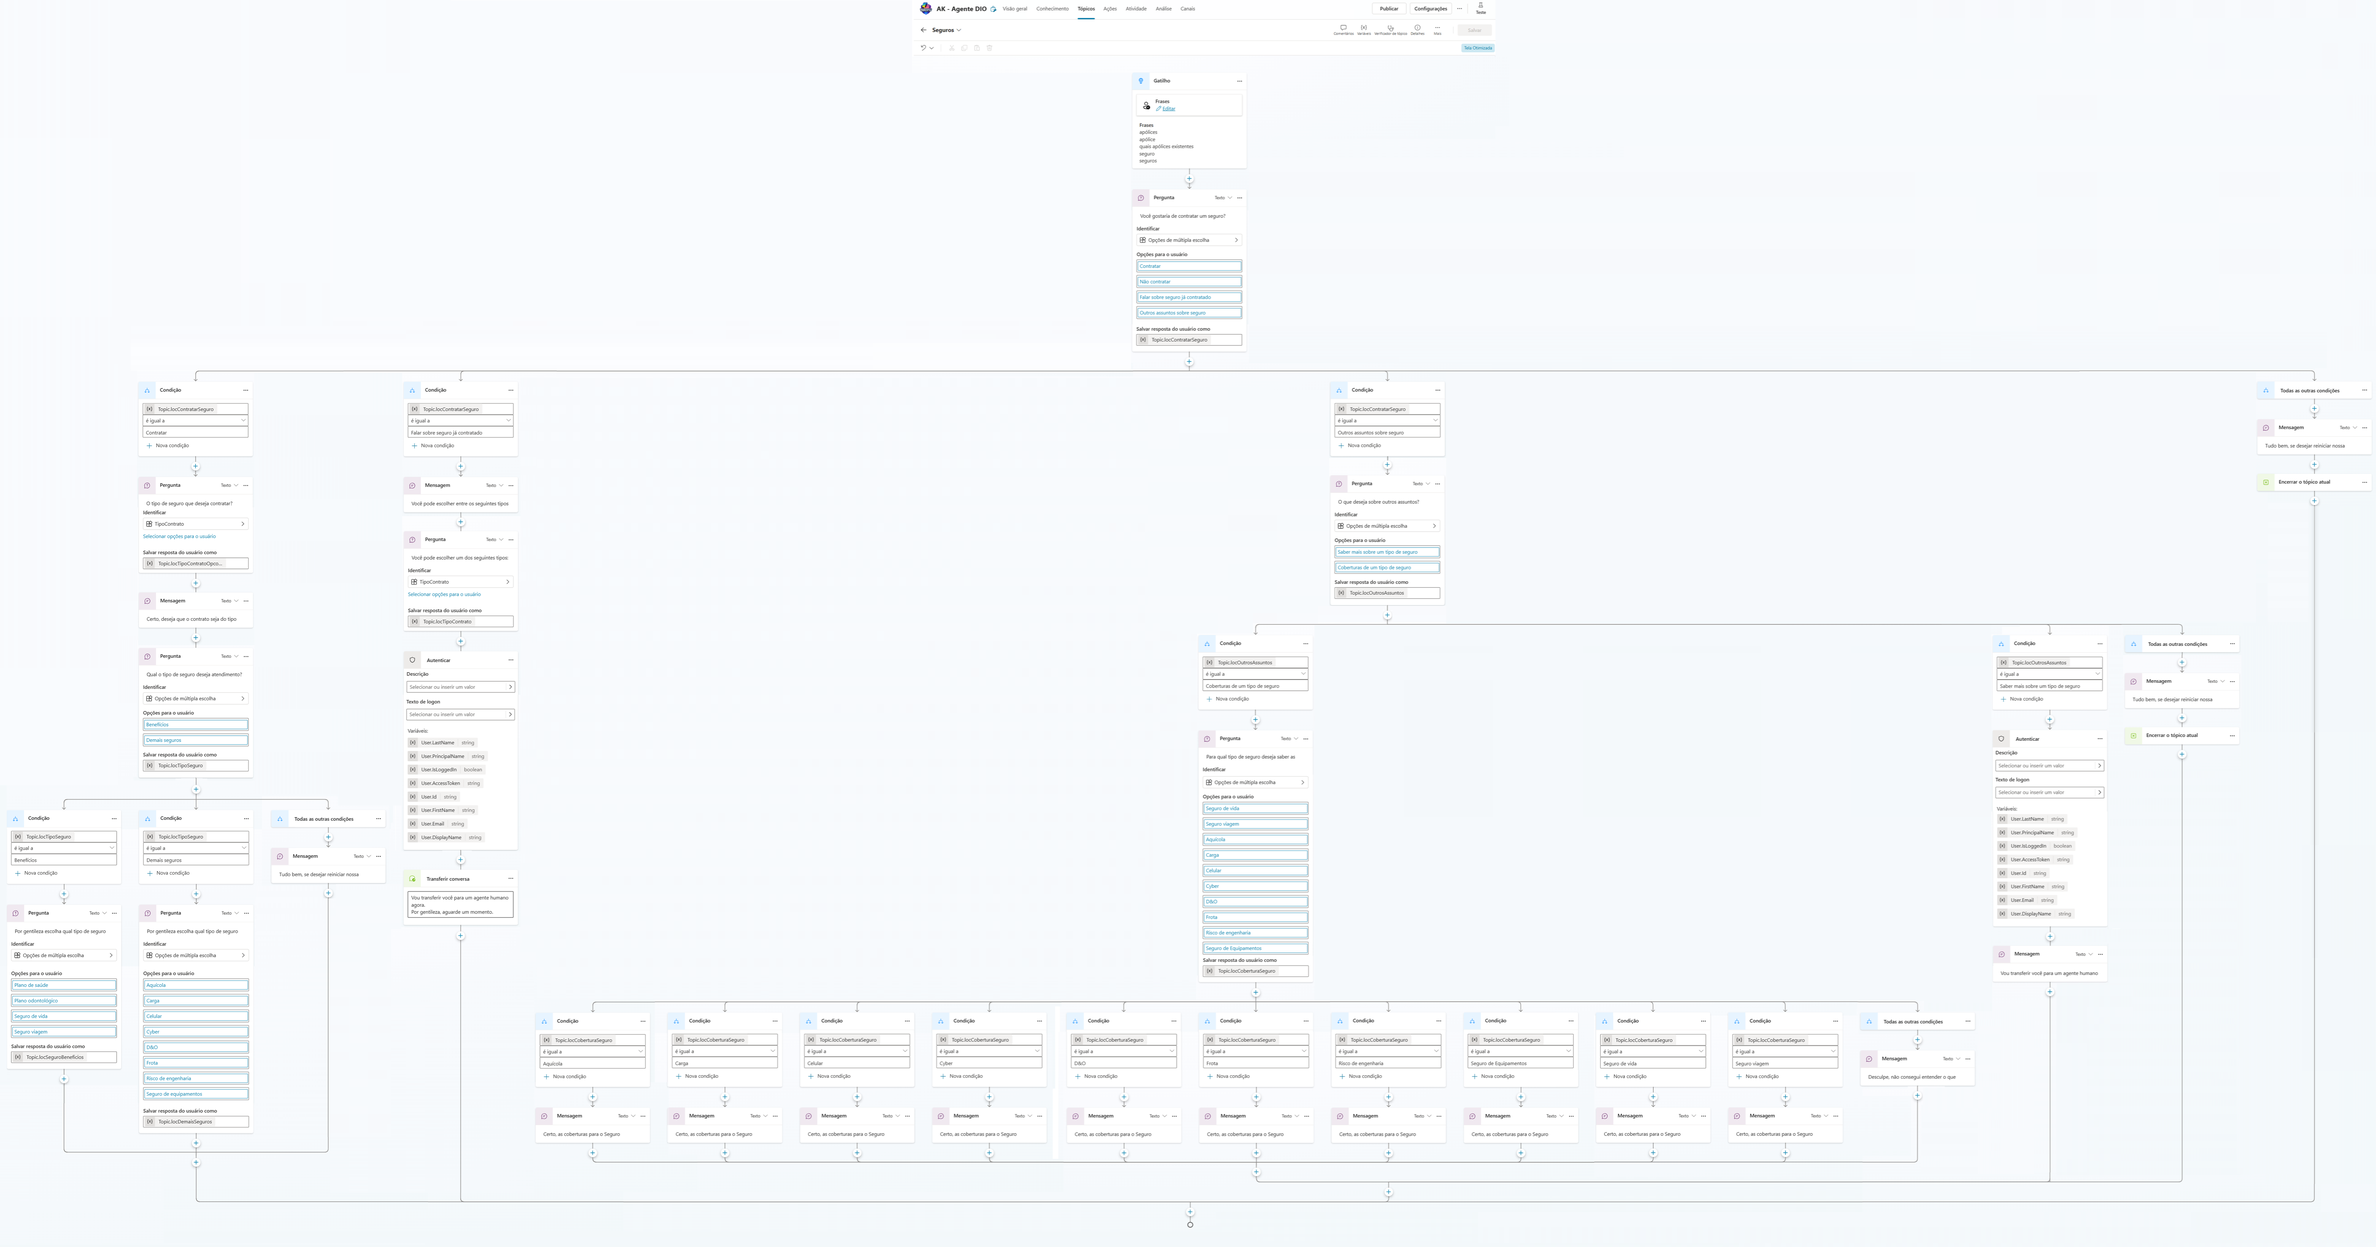
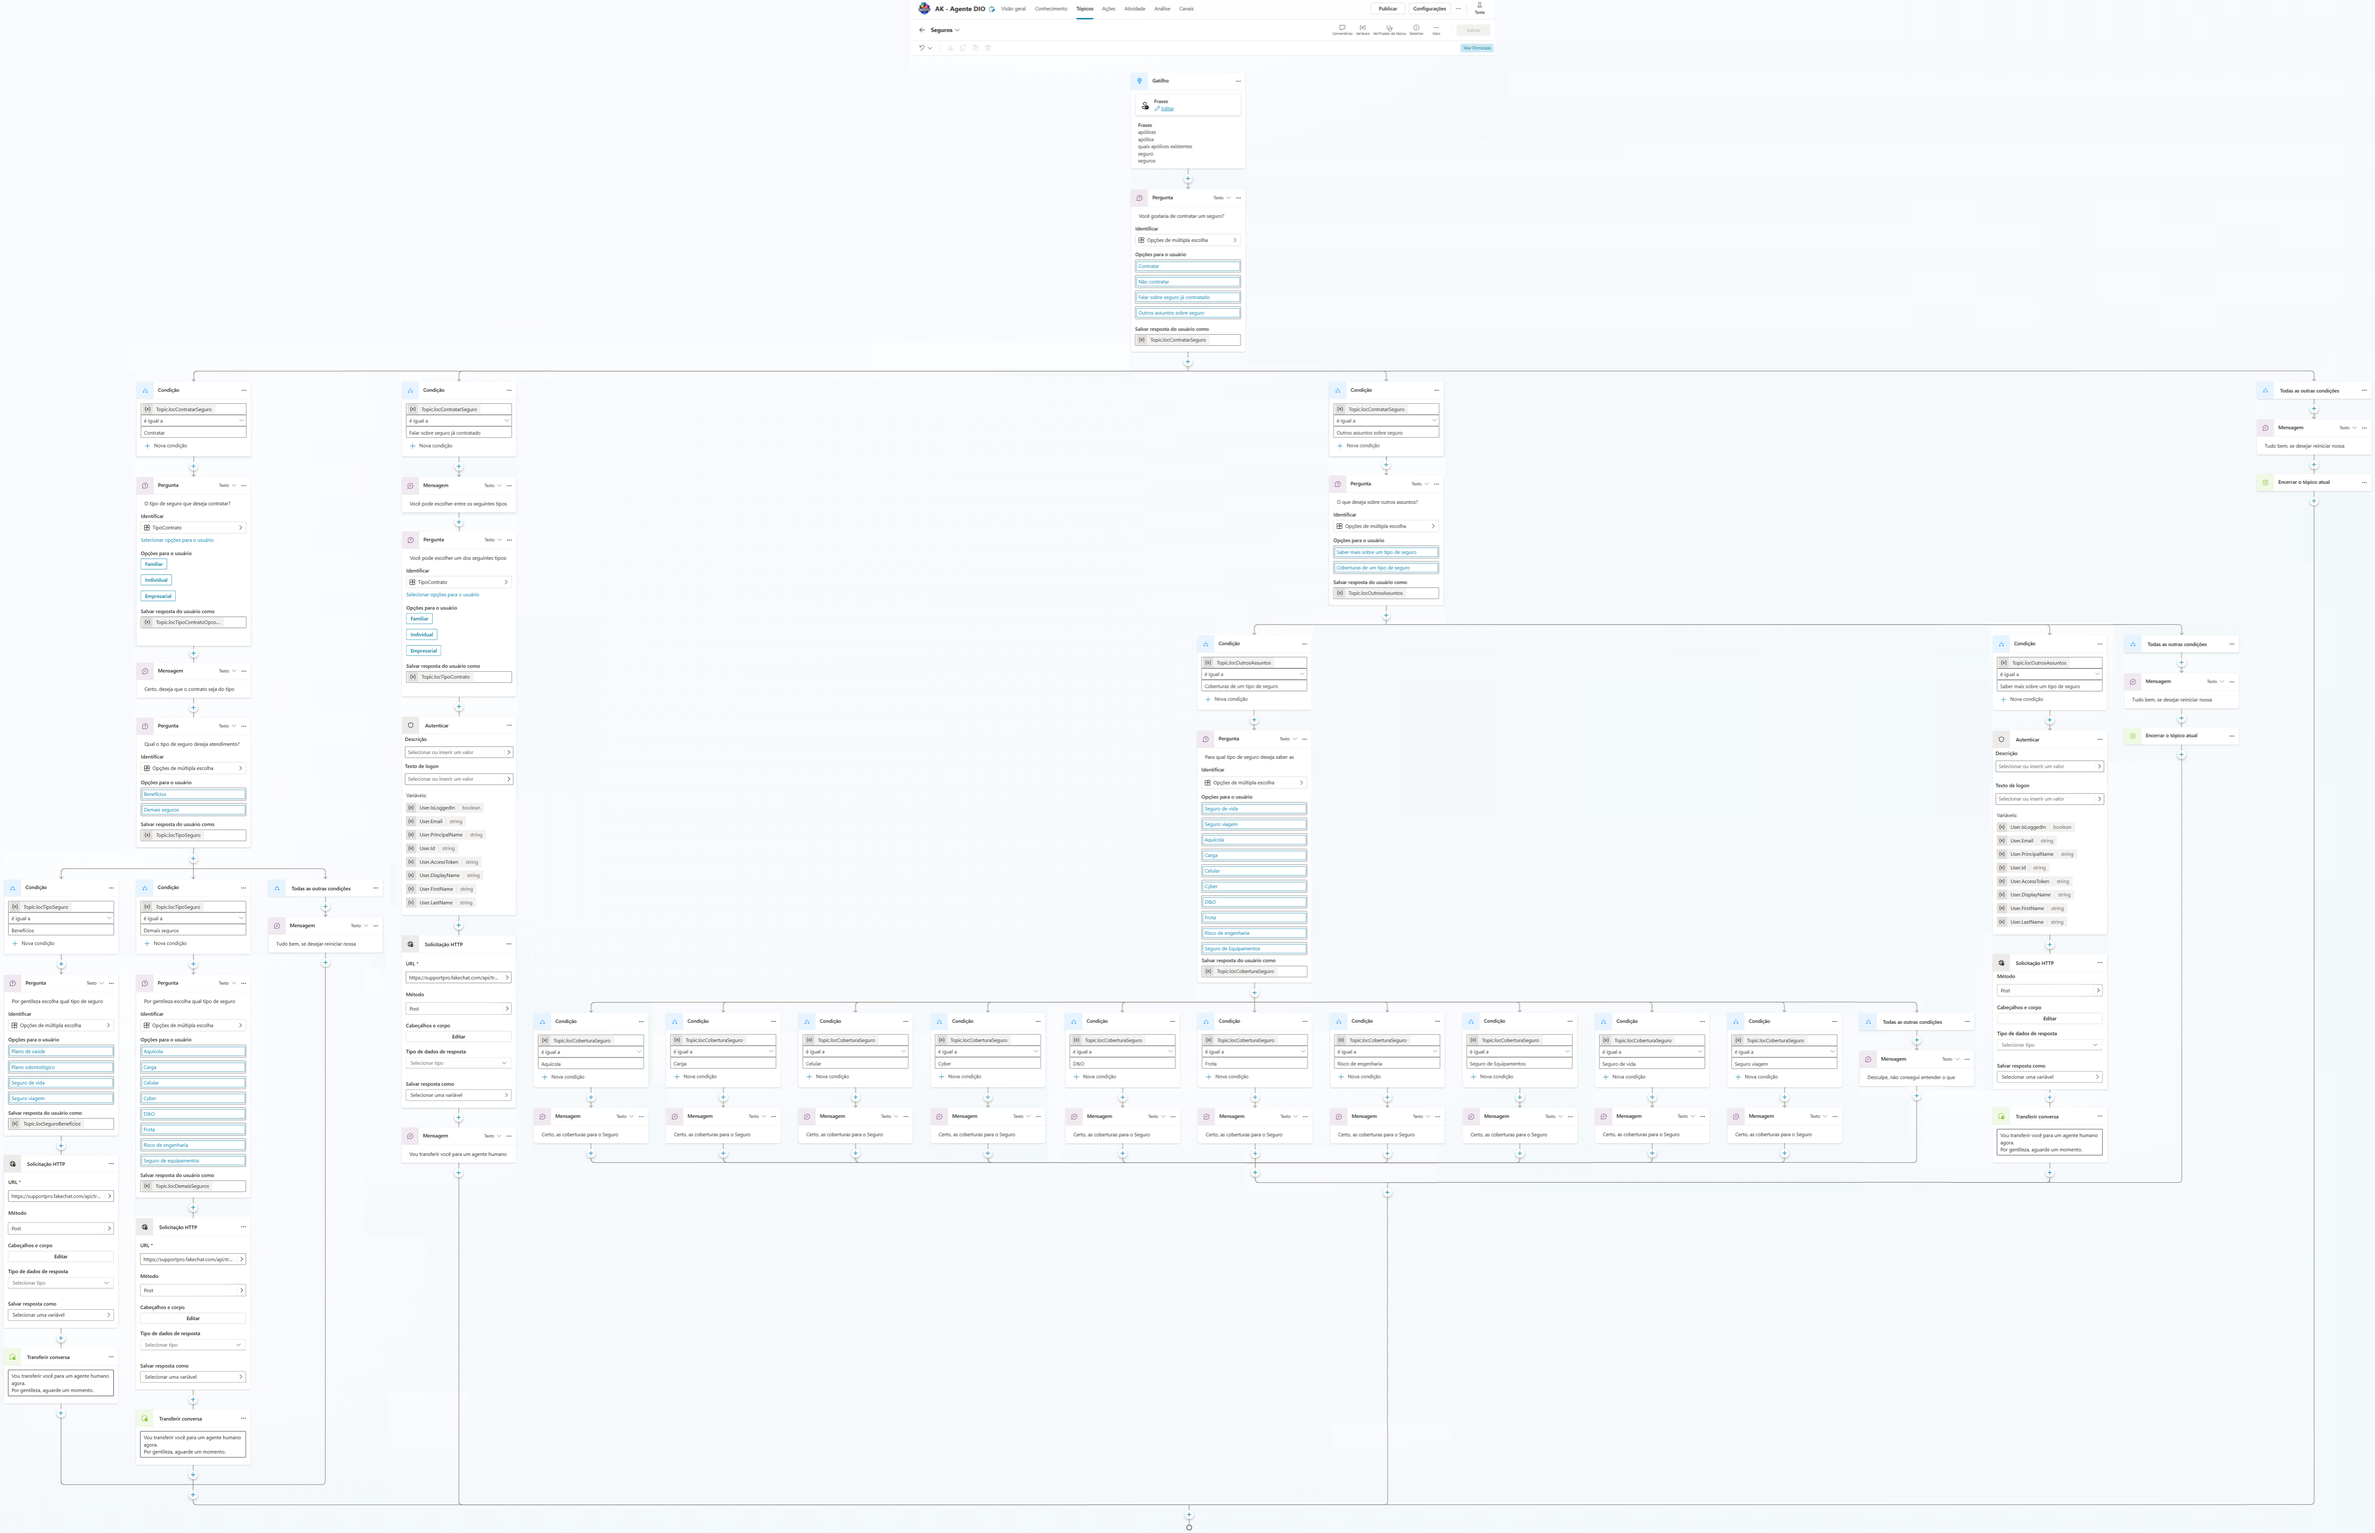
Implementando requisição de chamada HTTP para transferência de conversa para agente humano.

diff --git a/01-Microsoft-AI-for-Tech-Copilot-Studio/2°-Copiloto-com-Fluxo-de-Conversa-Personalizado/readmeCourse3.md b/01-Microsoft-AI-for-Tech-Copilot-Studio/2°-Copiloto-com-Fluxo-de-Conversa-Personalizado/readmeCourse3.md
@@ -48,6 +48,13 @@
 <img width="400" align="center" src="./img/Topico-saudacao.png">
 </div>
 
+- Tópico agente humano criado.
+
+<div align="center">
+<img width="400" align="center" src="./img/agente-humano.png">
+</div>
+<br />
+
 ---
 
 > #### <img src="https://raw.githubusercontent.com/Tarikul-Islam-Anik/Animated-Fluent-Emojis/master/Emojis/Travel%20and%20places/Hourglass%20Done.png" alt="Hourglass Done" width="20" height="20" /> Personalizar uma mensagem de erro do tópico
@@ -55,6 +62,7 @@
 <div align="center">
 <img width="400" align="center" src="./img/erro.png">
 </div>
+<br />
 
 ---
 
@@ -63,14 +71,31 @@
 <div align="center">
 <img width="400" align="center" src="./img/topico-com-ajuste-de-moderacao.png">
 </div>
+<br />
 
 ---
 
 > #### <img src="https://raw.githubusercontent.com/Tarikul-Islam-Anik/Animated-Fluent-Emojis/master/Emojis/Travel%20and%20places/Rocket.png" alt="Rocket" width="20" height="20" /> Resultado do desafio
 
+#### O que foi implementado
+
+- Tópico agente humano
+- Customizado tópico saudação para trazer o nome do usuário na conversa
+- Transferência de conversa para agente humano
+  <br /><br />
+
 <div align="center">
 <img width="1000" align="center" src="./img/resultado-topico.png">
 </div>
+<br />
+
+---
+
+> #### <img src="https://raw.githubusercontent.com/Tarikul-Islam-Anik/Animated-Fluent-Emojis/master/Emojis/Smilies/Robot.png" alt="Hand with Fingers Splayed Light Skin Tone" width="20" height="20" /> Para testar a funcionalidade, clique no link abaixo
+
+### <strong> <a href="https://copilotstudio.microsoft.com/environments/907fc06d-3b99-ee33-abb6-e5e84a8bdbea/bots/ak_AKAgenteDio/canvas?__version__=2&enableFileAttachment=true">K&D - Agente de Seguros</a> </strong>
+
+---
 
 > #### 🛠 Ferramentas utilizadas
 
